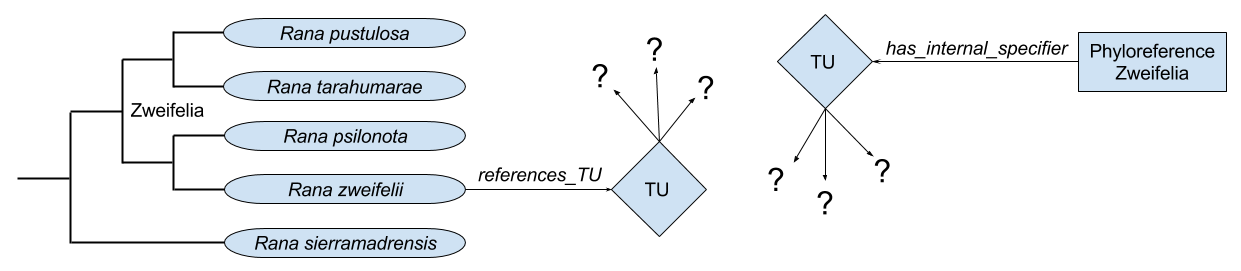
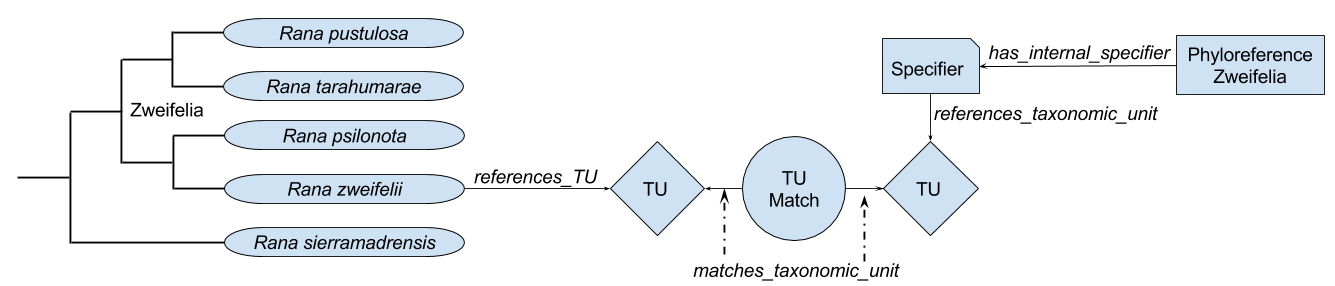
First pass with Hilmar's comments; still need to update the model to include TUMatch and incorporate Darwin-SW.

diff --git a/_posts/blog/2017-12-06-matching-nodes-to-phyloreferences.md b/_posts/blog/2017-12-06-matching-nodes-to-phyloreferences.md
@@ -15,58 +15,69 @@ image:
 
 Since developing a [system for phyloreferencing based on nodes in a particular phylogeny](http://www.phyloref.org/blog/2017/03/a-phyloreferencing-experiment/) earlier this year, we've been working on extended it to support node- and branch-based definitions — if you know how to read [pytest](https://www.pytest.org/) and [TAP](https://en.wikipedia.org/wiki/Test_Anything_Protocol) output, you can see this system [correctly resolving](https://travis-ci.org/phyloref/curation-workflow/builds/285935181) most currently curated phyloreferences on Travis CI! Before those phyloreferences are ready for a proper release, however, we need to create a flexible system for matching phyloreferences to nodes.
 
-Nodes on a phylogeny may be identified to a specimen, a species or a higher taxon; in a phylogenetic analysis, terminal nodes may also be associated with morphological or molecular character data. In the [Comparative Data Analysis Ontology](https://bioportal.bioontology.org/ontologies/CDAO) (CDAO, described in [Prosdocimi *et al.*, 2009](https://www.ncbi.nlm.nih.gov/pmc/articles/PMC2747124/)), this connection goes through an intermediate entity called a [Taxonomic Unit](http://purl.obolibrary.org/obo/CDAO_0000138) (or TU), which CDAO defines as "a unit of analysis that may be tied to a node in a tree and to a row in a character matrix". It therefore combines the commonly used but poorly defined concept of an [operational taxonomic unit](https://en.wikipedia.org/wiki/Operational_taxonomic_unit) with the less often used concept of an [hypothetical taxonomic unit](https://en.wiktionary.org/wiki/hypothetical_taxonomic_unit). A Node can be associated with a taxonomic unit through the [*represents_TU*](http://purl.obolibrary.org/obo/CDAO_0000187) property, which in turn can be linked to an external taxonomic resource through the [*has_External_Reference*](http://purl.obolibrary.org/obo/CDAO_0000164) property. External taxonomic resources may be drawn from [NCBITaxon](http://obofoundry.org/ontology/ncbitaxon.html), an ontology of taxonomic names from the [NCBI Taxonomy](http://dx.doi.org/10.1186/2041-1480-4-34). Other lineage-specific taxonomy ontologies also exist, such as the [Vertebrate Taxonomy Ontology](https://doi.org/10.1186/2041-1480-4-34) or the [Teleost Taxonomy Ontology](https://bioportal.bioontology.org/ontologies/TTO).
+Nodes on a phylogeny may be identified to a specimen, a species or a higher taxon; in a phylogenetic analysis, terminal nodes may also be associated with morphological or molecular character data. In the [Comparative Data Analysis Ontology](https://bioportal.bioontology.org/ontologies/CDAO) (CDAO, described in Prosdocimi *et al.*, 2009[^prosdocimi_et_al_2009]), this connection goes through an intermediate entity called a [Taxonomic Unit](http://purl.obolibrary.org/obo/CDAO_0000138) (or TU), which CDAO defines as "a unit of analysis that may be tied to a node in a tree and to a row in a character matrix". It therefore combines the commonly used but vaguely defined concept of an [operational taxonomic unit](https://en.wikipedia.org/wiki/Operational_taxonomic_unit) with the less often used concept of an [hypothetical taxonomic unit](https://en.wiktionary.org/wiki/hypothetical_taxonomic_unit). A Node can be associated with a taxonomic unit through the [*represents_TU*](http://purl.obolibrary.org/obo/CDAO_0000187) property, which in turn can be linked to an external taxonomic resource through the [*has_External_Reference*](http://purl.obolibrary.org/obo/CDAO_0000164) property. External taxonomic resources may be drawn from the [NCBITaxon ontology](http://obofoundry.org/ontology/ncbitaxon.html), an ontology of taxonomic names from the [NCBI Taxonomy](http://dx.doi.org/10.1186/2041-1480-4-34). Other lineage-specific taxonomy ontologies also exist, such as the [Vertebrate Taxonomy Ontology](https://doi.org/10.1186/2041-1480-4-34).
 
-While these ontologies allow us to refer to entire taxa, we can also craft OWL expressions to refer to a part of a taxon. This may be done by explicitly using the [*part_of*](http://www.ontobee.org/ontology/UBERON?iri=http://purl.obolibrary.org/obo/BFO_0000050) relation, as in General Class Inclusion (GCI) axioms in [Uberon](http://uberon.github.io/). [Mungall *et al.*, 2012](http://dx.doi.org/10.1186/gb-2012-13-1-r5) provides the following as an example of a GCI:
+[^prosdocimi_et_al_2009]: Prosdocimi *et al.* (2009) [*Initial Implementation of a Comparative Data Analysis Ontology*](https://www.ncbi.nlm.nih.gov/pmc/articles/PMC2747124/), Evolutionary Bioinformatics **5**:47-66.
+
+While these ontologies allow us to refer to entire taxa, we can also craft OWL expressions to refer to a part of a taxon. This may be done by explicitly using the [*part_of*](http://purl.obolibrary.org/obo/BFO_0000050) relation, as in General Class Inclusion (GCI) axioms in [Uberon](http://uberon.github.io/). Mungall *et al.*, 2012[^mungall_et_al_2012] provides the following as an example of a GCI:
+
+[^mungall_et_al_2012]: Mungall *et al.* (2012) [*Uberon, an integrative multi-species anatomy ontology*](http://dx.doi.org/10.1186/gb-2012-13-1-r5) Genome Biology **13**:R5.
 
 ```
 uberon:parathyroid_gland and part_of some ncbitaxon:Xenopus 
   SubClassOf develops_from some uberon:pharyngeal_arch_3
 ```
 
-Some properties also make it clear that they may apply to a part of the taxon. This approach is taken by the Gene Ontology, which uses [taxonomic constraints](https://github.com/obophenotype/uberon/wiki/Taxon-constraints) to specify that certain genes and processes are found "[*only in taxon*](http://purl.obolibrary.org/obo/RO_0002160)" or "[*never in taxon*](http://purl.obolibrary.org/obo/RO_0002161)", indicating that the property applies to some but not necessarily all members of that taxon. [Deegan *et al.*, 2010](https://bmcbioinformatics.biomedcentral.com/articles/10.1186/1471-2105-11-530) has more details on taxonomic constraints.
+Some properties also make it clear that they may apply to a part of the taxon. This approach is taken by the Gene Ontology, which uses [taxonomic constraints](https://github.com/obophenotype/uberon/wiki/Taxon-constraints) to specify that certain genes and processes are found "[*only in taxon*](http://purl.obolibrary.org/obo/RO_0002160)" or "[*never in taxon*](http://purl.obolibrary.org/obo/RO_0002161)", indicating that the property applies to *some* but not necessarily *all* members of that taxon. Deegan *et al.*, 2010[^deegan_et_al_2010] has more details on taxonomic constraints.
 
-Let's work through an example of linking a node in a phylogeny with a taxonomic unit: [TreeBASE tree #4419](https://treebase.org/treebase-web/search/study/taxa.html?id=1269&treeid=4419) (found in study #1269) contains a terminal node labeled "Rana zweifelii", which TreeBASE has identified to [NCBI Taxon #299667](https://www.ncbi.nlm.nih.gov/Taxonomy/Browser/wwwtax.cgi?id=299667). A reference to this taxonomic name has been created in OWL by the [Vertebrate Taxonomy Ontology](http://www.obofoundry.org/ontology/vto.html) as [VTO_0002750](http://purl.obolibrary.org/obo/VTO_0002750). We could therefore model this node as:
+[^deegan_et_al_2010]: Deegan (née Clark) *et al.* (2010) [*Formalization of taxon-based constraints to detect inconsistencies in annotation and ontology development*](http://dx.doi.org/10.1186/1471-2105-11-530) BMC Bioinformatics **11**:530.
+
+Let's work through an example of linking a node in a phylogeny with a taxonomic unit: when viewing a list of [taxa for TreeBASE tree #4419](https://treebase.org/treebase-web/search/study/taxa.html?id=1269&treeid=4419) (found in [study #1269](https://treebase.org/treebase-web/search/study/summary.html?id=1269)) contains a terminal node labeled "Rana zweifelii", which TreeBASE has identified to [NCBI Taxon #299667](https://www.ncbi.nlm.nih.gov/Taxonomy/Browser/wwwtax.cgi?id=299667). The [Vertebrate Taxonomy Ontology](http://www.obofoundry.org/ontology/vto.html) identifies this taxon as [VTO_0002750](http://purl.obolibrary.org/obo/VTO_0002750). We could therefore model this node as:
 
 ```
-:Node_1234 a cdao:Node;
+_:Node_1 a cdao:Node;
   rdfs:label "Rana zweifelii";
   cdao:represents_TU [
     cdao:has_External_Reference <http://purl.obolibrary.org/obo/VTO_0002750>
   ].
 ```
 
-(Note that I use human-readable names like "*cdao:represents_TU*" in place of the actual machine-readable identifier, which in this case is [obo:CDAO_0000187](http://purl.obolibrary.org/obo/CDAO_0000187)).
+(Note that I use human-readable names constructed from the term label, such as "*cdao:represents_TU*", in place of the actual machine-readable identifier, which in this case is [obo:CDAO_0000187](http://purl.obolibrary.org/obo/CDAO_0000187)).
 
+This phylogeny was published in Hillis and Wilcox, 2005[^hillis_and_wilcox_2005], who provide some additional information about the specimen this node is based upon. In table 1, we learn that it has a specimen identifier of "KU&nbsp;195310", that it was collected in "Mexico: Oaxaca: 1.6 mi S Cuyotepej", and that the sequence information used in this analysis for this node has been accessioned as [GenBank AY779219](https://www.ncbi.nlm.nih.gov/nuccore/AY779219). It also reveals an error in the node label: the correct taxonomic name is *Rana zweifeli*, not *Rana zweifelii* (note the extra 'i'). We can add this additional information to taxonomic units through CDAO's [*has_Value*](http://purl.obolibrary.org/obo/CDAO_0000215) property. I could not find an example of taxonomic names being stored in CDAO trees outside of a label. Extrapolating from Prosdocimi *et al.*, 2009[^prosdocimi_et_al_2009]'s definition of `EdgeTransition` as a subclass of a [cdao:EdgeAnnotation](http://purl.obolibrary.org/obo/CDAO_0000101), however, it appears that CDAO's design calls for creating custom classes that extend [cdao:TUAnnotation](http://purl.obolibrary.org/obo/CDAO_0000066). This may look like this:
 
-
-
-This phylogeny was published in [Hillis and Wilcox, 2005](https://doi.org/10.1016/j.ympev.2004.10.007), who provide some additional information on the specimen this node is based upon. In table 1, we learn that it has a specimen identifier of "KU&nbsp;195310", that it was collected in "Mexico: Oaxaca: 1.6 mi S Cuyotepej", and that the sequence information used in this analysis for this node has been accessioned as [GenBank AY779219](https://www.ncbi.nlm.nih.gov/nuccore/AY779219). It also reveals an error in the node label: the correct taxonomic name is *Rana zweifeli*, not *Rana zweifelii*. We can add this additional information to taxonomic units through CDAO's [*has_Value*](http://purl.obolibrary.org/obo/CDAO_0000215) property. I could not find an example of taxonomic names being stored in CDAO trees outside of a label, but the recommended method for doing this appears to be by creating custom classes that extend [cdao:TUAnnotation](http://purl.obolibrary.org/obo/CDAO_0000066). This may look like this:
+[^hillis_and_wilcox_2005]: Hillis and Wilcox (2005) [*Phylogeny of the New World true frogs (*Rana*)*](https://doi.org/10.1016/j.ympev.2004.10.007), Molecular Phylogenetics and Evolution **34**(2):299-314.
 
 
 ```
-:TaxonNameAnnotation a cdao:TUAnnotation.
-:SpecimenIdentifierAnnotation a cdao:TUAnnotation.
+_:TaxonNameAnnotation a owl:Class; 
+    rdfs:subClassOf cdao:TUAnnotation.
+_:SpecimenIdentifierAnnotation a owl:Class; 
+    rdfs:subClassOf cdao:TUAnnotation.
 
-:Node_1234 a cdao:Node;
+_:Node_1 a cdao:Node;
   rdfs:label "Rana zweifelii";
   cdao:represents_TU [
     cdao:has_External_Reference <http://purl.obolibrary.org/obo/VTO_0002750>;
     cdao:has_Annotation [
-      a cdao:TaxonNameAnnotation;
+      a _:TaxonNameAnnotation;
       cdao:has_Value "Rana zweifeli Hillis, Frost and Webb 1984"
     ];
     cdao:has_Annotation [
-      a cdao:SpecimenIdentifierAnnotation;
+      a _:SpecimenIdentifierAnnotation;
       cdao:has_Value "KU 195310"
     ]
   ].
 ```
 
-But this seems unnecessarily convoluted. We could instead use [Darwin Core](http://rs.tdwg.org/dwc/terms/) terms imported into the [Biological Collections Ontology](http://www.ontobee.org/ontology/BCO), which defines classes such as [PreservedSpecimen](http://www.ontobee.org/ontology/BCO?iri=http://rs.tdwg.org/dwc/terms/PreservedSpecimen) and properties such as [catalogNumber](http://www.ontobee.org/ontology/BCO?iri=http://rs.tdwg.org/dwc/terms/catalogNumber). This might look something like this:
+This class-based approach has certain advantages: consider, for instance, an `ObservationAnnotation` class with subclasses for photographs, preserved specimens or DNA collected from the environment, which could facilitate integration of different types of biodiversity data. However, we would need to define our own annotation for each type of data we wanted to be able to use, and define either how [cdao:has_Value](http://purl.obolibrary.org/obo/CDAO_0000215) works for each of those types, or define our own data properties for each. Instead of defining these annotation classes, however, we can apply properties directly to the taxonomic units. This would allow us to build on the [Darwin Core](http://rs.tdwg.org/dwc/terms/)[^wieczorek_et_al_2012] RDF vocabulary and the [Darwin-SW ontology](https://github.com/darwin-sw/dsw/)[^baskauf_and_webb_2016]. While Darwin Core terms have been defined in RDF but not as OWL data properties, we could define those data properties ourselves or use the terms defined in the [Biological Collections Ontology](http://www.ontobee.org/ontology/BCO), including classes such as [PreservedSpecimen](http://www.ontobee.org/ontology/BCO?iri=http://rs.tdwg.org/dwc/terms/PreservedSpecimen) and properties such as [catalogNumber](http://www.ontobee.org/ontology/BCO?iri=http://rs.tdwg.org/dwc/terms/catalogNumber). This might look something like this:
+
+[^baskauf_and_webb_2016]: Baskauf and Webb (2016) [*Darwin-SW: Darwin Core-based terms for expressing biodiversity data as RDF*](http://dx.doi.org/10.3233/SW-150203), Semantic Web Journal **7**(6):629-643.
+
+[^wieczorek_et_al_2012]: Wieczorek *et al.* (2012) [*Darwin Core: An Evolving Community-Developed Biodiversity Data Standard*](https://doi.org/10.1371/journal.pone.0029715), PLOS ONE.
 
 ```
-:Node_1234 a cdao:Node;
+_:Node_1 a cdao:Node;
   rdfs:label "Rana zweifelii";
   cdao:represents_TU [
     cdao:has_External_Reference <http://purl.obolibrary.org/obo/VTO_0002750>;
@@ -83,10 +94,14 @@ But this seems unnecessarily convoluted. We could instead use [Darwin Core](http
   ].
 ```
 
+> **TODO** ("phyloref:derived_from_specimen"): Why do we need to make up our own predicate for this? Is there nothing in DwC or DSW that would suit?
+
 One last level of indirection: instead of associating name properties directly with the taxonomic unit, we could create a new property to separate the name into its own class. We could use the "Scientific Name" class in the Nomen ontology, not yet published but [available on Github](https://github.com/SpeciesFileGroup/nomen/blob/dd899b94c2a6cb58bdb5665018546697072f2a46/src/ontology/nomen.owl#L1003):
 
+> **TODO** ("One last level of indirection"): Add more information on why this isn't ideal for us, And how they differ in terms of semantics and inferences that they'll permit.
+
 ```
-:Node_1234 a cdao:Node;
+_:Node_1 a cdao:Node;
   rdfs:label "Rana zweifelii";
   cdao:represents_TU [
     cdao:has_External_Reference <http://purl.obolibrary.org/obo/VTO_0002750>;
@@ -106,17 +121,21 @@ One last level of indirection: instead of associating name properties directly w
   ].
 ```
 
+> **TODO** ("phyloref:has_scientific_name"): That seems like a bad choice for several reasons. Obviously, it's made up, but also this is really an identification rather than a hard and fast fact of having this name, no? There are DSW and DwC terms for identification.
+
 This would allow both the scientific name and the specimen to be identified as separate entities, with possibly complex relationships of inclusion and synonymy among each other. While no canonical URI is available for this specimen, we can manually look it up on databases such as VertNet, where we learn that [specimen KU&nbsp;195310](http://portal.vertnet.org/o/ku/kuh?id=be1b5c81-b069-11e3-8cfe-90b11c41863e) was collected on June 3, 1983, that the georeferenced coordinates of its collection location are 17.91 N and 97.68 W, and that it is stored as a physical specimen preserved in ethanol. We could also extract individual characters from the DNA sequence stored at [GenBank AY779219](https://www.ncbi.nlm.nih.gov/nuccore/AY779219), which we could associate with this taxonomic unit through the [*has_TU*](http://purl.obolibrary.org/obo/CDAO_0000208) property. 
 
-This model also cleanly separates a node from the "taxonomic unit" it refers to, which is itself separate from a specimen or taxon. More detailed models of specimens do exist in OWL: within the [Populuation and Community Ontology](https://bioportal.bioontology.org/ontologies/PCO), a CDAO taxonomic unit could be considered an [organismal entity](http://purl.obolibrary.org/obo/PCO_0000031), which may stand-in for a [single organism](http://purl.obolibrary.org/obo/CARO_0001010) or a number of organisms, whether at the [population](http://purl.obolibrary.org/obo/PCO_0000001) or [taxon](http://www.ontobee.org/ontology/BCO?iri=http://rs.tdwg.org/dwc/terms/Taxon) level, against which [identifications are asserted](http://purl.obolibrary.org/obo/BCO_0000084). In this case, our node would be a member of the organism, population or taxon using the [*has_member*](http://purl.obolibrary.org/obo/RO_0002351) property. While this level of complexity is currently unnecessary for our needs, it might be useful in the future.
+This model also cleanly separates a node from the "taxonomic unit" it refers to, which is itself separate from a specimen or taxon. More detailed models of specimens do exist in OWL: within the [Populuation and Community Ontology](https://bioportal.bioontology.org/ontologies/PCO), a CDAO taxonomic unit could be considered an [organismal entity](http://purl.obolibrary.org/obo/PCO_0000031), which may stand in for a [single organism](http://purl.obolibrary.org/obo/CARO_0001010) or a number of organisms, whether at the [population](http://purl.obolibrary.org/obo/PCO_0000001) or [taxon](http://www.ontobee.org/ontology/BCO?iri=http://rs.tdwg.org/dwc/terms/Taxon) level, against which [identifications are asserted](http://purl.obolibrary.org/obo/BCO_0000084). In this case, our node would be a member of the organism, population or taxon using the [*has_member*](http://purl.obolibrary.org/obo/RO_0002351) property. While this level of complexity is currently unnecessary for our needs, it might be useful in the future.
 
-The trickier challenge is determining how to model "specifiers" — the components of phyloreferences that match nodes. Phyloreferences need to be able to refer to taxonomic units in a portable way, so that as many phyloreferences can be matched as accurately as possible. While phyloreferences are not limited by the requirements of phylogenetic clade definitions, it is useful to look at [article 11](https://www.ohio.edu/phylocode/art11.html) of the PhyloCode specification (version 4c), which requires that specifiers be one of:
+The trickier challenge is determining how to model "specifiers" — the components of phyloreferences that match nodes. Phyloreferences need to be able to refer to taxonomic units in a portable way, otherwise their own portability will be limited. While phyloreferences are not limited by the requirements of phylogenetic clade definitions, it is useful to look at [article 11](https://www.ohio.edu/phylocode/art11.html) of the PhyloCode specification (version 4c), which requires that specifiers be one of:
 
 1. A specimen, preferably a type specimen,
 2. A species, by which they mean "whichever currently accepted species includes the type specimen of the species name cited in the definition is the specifier", or
 3. Apomorphies in apomorphy-based phylogenetic clade definitions.
  
 We set aside apomorphy-based phyloreferences for now, so the only two entities we need to match are specimens and species. Specifiers could follow the same representation as taxonomic units to store information about taxonomy and specimens, such as:
+
+> **TODO** ("so the only two entities we need to match are specimens and species"): That seems overly limiting, in that it seems to suggest limiting ourselves to what PhyloCode compliance minimally requires. That's not our goal, though.
 
 ```
 :Specifer_1 a phyloref:Specifier;
@@ -134,21 +153,27 @@ We set aside apomorphy-based phyloreferences for now, so the only two entities w
   ].
 ```
 
-Note that the text doesn't exactly match the node we defined earlier: the collection code is "KUH", not "KU", and the scientific name is just "Rana zweifeli", without the authorship information ("Hillis, Frost and Webb 1984"). These small differences between catalogues, textual identifiers and especially taxonomic names occur all the time (do you know the [65 different permutations of names and authorships](http://www.jstor.org/stable/4065054) used by diatom taxonomists for [*Stephanodiscus minutulus*](https://westerndiatoms.colorado.edu/taxa/species/stephanodiscus_minutulus)?), and form one of the most challenging aspects of our project.
+Note that the text doesn't exactly match the node we defined earlier: the collection code is "KUH", not "KU", and the scientific name is just "Rana zweifeli", without the authorship information ("Hillis, Frost and Webb 1984"). These small differences between catalogues, textual identifiers and especially taxonomic names occur all the time[^stephanodiscus_minutulus], and form one of the most challenging aspects of our project.
 
-OWL is not the best place to carry out these matches: while it can represent the result of a match, OWL's class expressions cannot carry out complex text matches. We will therefore infer these relationships by comparing taxonomic units to specifiers outside of OWL and inserting axioms to represent these relationships within it. This matching might initially occur through simple text matching; we can extend this to more complex taxonomic name matching through algorithms such as [Taxamatch](https://doi.org/10.1371/journal.pone.0107510) as the need arises. When we discover nodes or specifiers that cannot be matched through simple text matching, we can add them to our test suite and use them to motivate improvements in matching strategies.
+[^stephanodiscus_minutulus]: For example, consider the [65 different permutations of names and authorships](http://www.jstor.org/stable/4065054) used by diatom taxonomists for [*Stephanodiscus minutulus*](https://westerndiatoms.colorado.edu/taxa/species/stephanodiscus_minutulus).
+
+OWL is not the best place to implement these matches: while it can represent the result of a match, OWL's class expressions cannot carry out complex text matches. We will therefore reconstruct these relationships by comparing taxonomic units to specifiers outside of OWL and inserting axioms to represent these relationships within it. This matching might initially occur through simple text matching; we can extend this to more complex taxonomic name matching through algorithms such as [Taxamatch](https://doi.org/10.1371/journal.pone.0107510) or [taxonomic name resolution services](http://dx.doi.org/10.1186/1471-2105-14-16) as the need arises. When we discover nodes or specifiers that cannot be matched through simple text matching, we can add them to our test suite and use them to motivate improvements in matching strategies.
+
+> **TODO** ("specifiers outside of OWL"): This reads as specifiers outside of OWL, which is not what you mean to bind together. Consider rephrasing to make it clear.
 
 Once specifiers have been matched with taxonomic units matched by them, this matching can be extended to the nodes associated with each taxonomic unit, such as:
 
 ```
-:Specifier_1 phyloref:matches_TU :TaxonomicUnit_204 .
-:Node_1234 cdao:represents_TU :TaxonomicUnit_204 .
-:Specifier_1 phyloref:matches_node :Node_1234
+_:Specifier_1 phyloref:matches_TU :TaxonomicUnit_204 .
+_:Node_1 cdao:represents_TU :TaxonomicUnit_204 .
+_:Specifier_1 phyloref:matches_node _:Node_1
 ```
 
-Once specifiers have been matched with nodes, we should be able to craft an OWL class expression for phyloreferences that correctly identify the clade of interest.
+> **TODO** (":Specifier_1 phyloref:matches_node :Node_1234"): Note that this can be achieved through inference, for example through a rule or a property chain.
 
-If we wanted to, we *could* implement an extremely basic taxon matching system using OWL class expressions. For external identifiers, constructing such a class expression is trivial:
+In practice, these relationships can be inferred: if we know that two taxonomic units match each other, we could use an OWL property chain to infer that specifiers associated with one taxonomic unit match the node associated with the other taxonomic unit. Once specifiers have been matched with nodes, we can use our previous work to craft an OWL class expression for phyloreferences that correctly identify the clade of interest.
+
+If we wanted to, we *could* implement an extremely basic taxon matching system using OWL class expressions. For taxonomic units that are based on identical external identifiers, constructing such a class expression is trivial:
 
 ```
 cdao:Node and cdao:represents_TU some (
